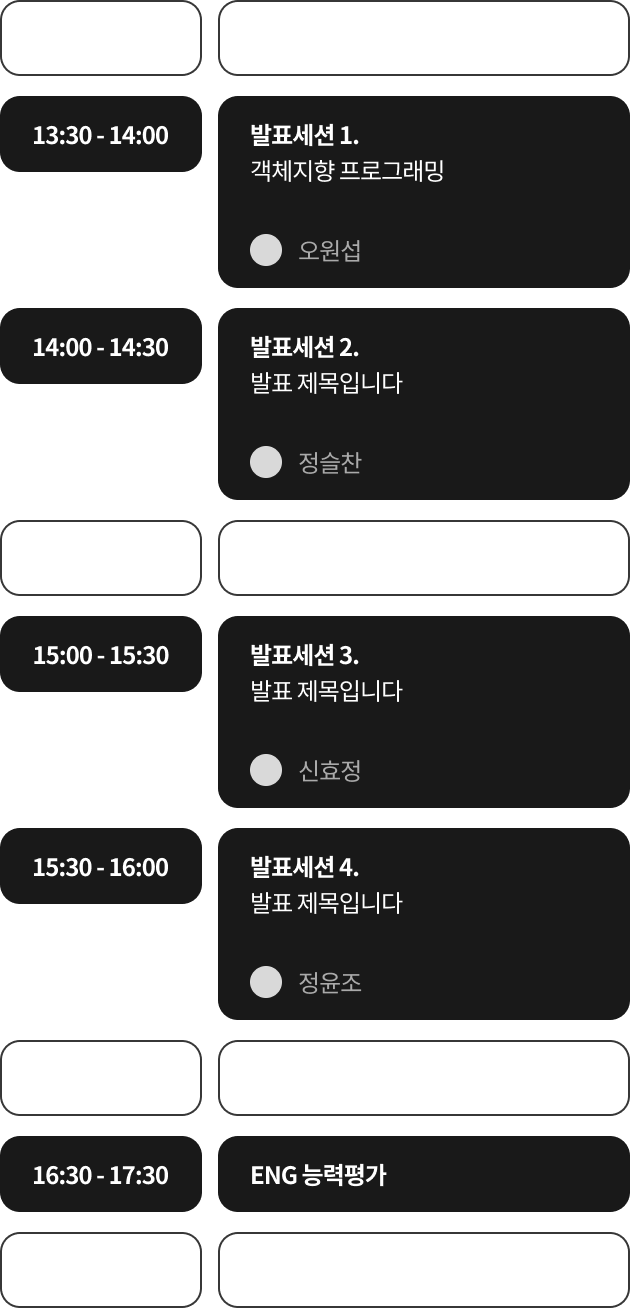
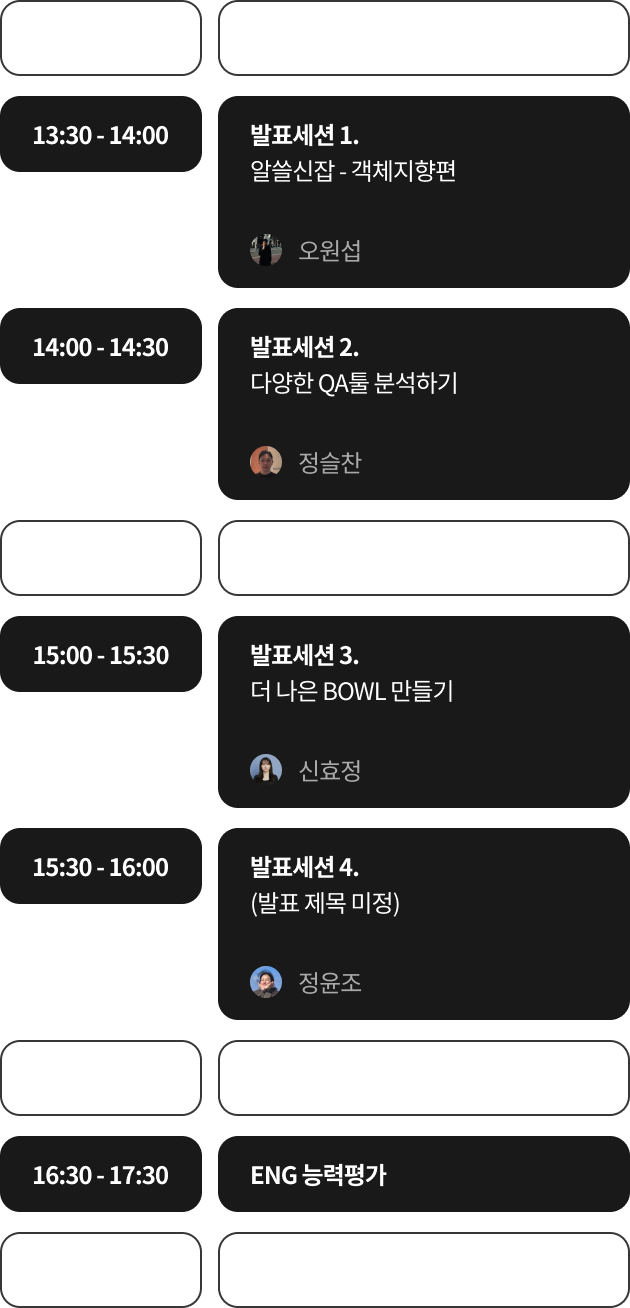
chore: 마지막 수정

diff --git a/public/index.html b/public/index.html
@@ -2,43 +2,23 @@
 <html lang="en">
   <head>
     <meta charset="utf-8" />
-    <link rel="icon" href="%PUBLIC_URL%/favicon.ico" />
+    <link rel="icon" href="./favicon.png" />
     <meta name="viewport" content="width=device-width, initial-scale=1" />
     <meta name="theme-color" content="#000000" />
     <meta
       name="description"
-      content="Web site created using create-react-app"
+      content="제 10회 코드스테이츠 엔지니어링 데이 랜딩페이지 입니다."
     />
-    <link rel="apple-touch-icon" href="%PUBLIC_URL%/logo192.png" />
-    <!--
-      manifest.json provides metadata used when your web app is installed on a
-      user's mobile device or desktop. See https://developers.google.com/web/fundamentals/web-app-manifest/
-    -->
-    <link rel="manifest" href="%PUBLIC_URL%/manifest.json" />
-    <!--
-      Notice the use of %PUBLIC_URL% in the tags above.
-      It will be replaced with the URL of the `public` folder during the build.
-      Only files inside the `public` folder can be referenced from the HTML.
+    <meta property="og:title" content="ENG DAY 10" />
+    <meta property="og:type" content="website" />
+    <meta property="og:url" content="https://engday10.meganmagic.com" />
+    <meta property="og:image" content="https://s3.us-west-2.amazonaws.com/secure.notion-static.com/cc150d1e-cacf-46ba-890c-ea588a2789c2/engday10banner-left.png?X-Amz-Algorithm=AWS4-HMAC-SHA256&X-Amz-Content-Sha256=UNSIGNED-PAYLOAD&X-Amz-Credential=AKIAT73L2G45EIPT3X45%2F20230110%2Fus-west-2%2Fs3%2Faws4_request&X-Amz-Date=20230110T071339Z&X-Amz-Expires=86400&X-Amz-Signature=4b38b3df7ddd0ca0e2ab108e6936e20cd6f5ad295795d8f63c5baab79268f37f&X-Amz-SignedHeaders=host&response-content-disposition=filename%3D%22engday10banner-left.png%22&x-i" />
 
-      Unlike "/favicon.ico" or "favicon.ico", "%PUBLIC_URL%/favicon.ico" will
-      work correctly both with client-side routing and a non-root public URL.
-      Learn how to configure a non-root public URL by running `npm run build`.
-    -->
+    <link rel="manifest" href="%PUBLIC_URL%/manifest.json" />
     <link rel="preconnect" href="https://fonts.googleapis.com"><link rel="preconnect" href="https://fonts.gstatic.com" crossorigin><link href="https://fonts.googleapis.com/css2?family=Noto+Sans+KR:wght@300;400;500;700;900&family=Orbitron:wght@900&display=swap" rel="stylesheet" />
-    <title>React App</title>
+    <title>ENG DAY 10</title>
   </head>
   <body>
-    <noscript>You need to enable JavaScript to run this app.</noscript>
     <div id="root"></div>
-    <!--
-      This HTML file is a template.
-      If you open it directly in the browser, you will see an empty page.
-
-      You can add webfonts, meta tags, or analytics to this file.
-      The build step will place the bundled scripts into the <body> tag.
-
-      To begin the development, run `npm start` or `yarn start`.
-      To create a production bundle, use `npm run build` or `yarn build`.
-    -->
   </body>
 </html>

diff --git a/src/sections/CommitteeSection.tsx b/src/sections/CommitteeSection.tsx
@@ -1,6 +1,6 @@
 import styled from "styled-components";
 // TODO: 손하트 이모지로 변경
-import CalendarEmoji from "../assets/emoji-calendar.png";
+import HeartEmoji from "../assets/emoji-heart.png";
 import CommitteeDonghoonProfile from "../assets/committee-section-donghoon.png";
 import CommitteeJunghoProfile from "../assets/committee-section-jungho.png";
 import CommitteeTaeyoungProfile from "../assets/committee-section-taeyoung.png";
@@ -176,7 +176,7 @@ const CommitteeSection = () => {
     <CommitteeSectionWrapper id={"committee"}>
       <div className="title-box">
         <div className="emoji-box">
-          <img src={CalendarEmoji} alt="손하트 이모지" />
+          <img src={HeartEmoji} alt="손하트 이모지" />
         </div>
         <h2 className="section-title">준비한 사람들</h2>
       </div>

diff --git a/src/sections/TestSection.tsx b/src/sections/TestSection.tsx
@@ -235,10 +235,6 @@ const TestSection = () => {
           <p>* 상품과 문제풀이 링크는 당일에 공개됩니다.</p>
         </div>
       </div>
-      <aside className="info-banner">
-        <img src={TrumpetEmoji} alt="나팔 이모지" />
-        <p>잠깐! 문제풀이를 위해 노트북을 꼭 지참해주세요</p>
-      </aside>
     </TimetableSectionWrapper>
   );
 };

diff --git a/src/sections/TalkSection.tsx b/src/sections/TalkSection.tsx
@@ -14,7 +14,7 @@ const TALKS_DATA = [
     imgSrc: speakerImg1,
   },
   {
-    title: <>발표 제목입니다</>,
+    title: <>(발표 제목 미정)</>,
     speaker: "정윤조",
     imgSrc: speakerImg2,
   },
